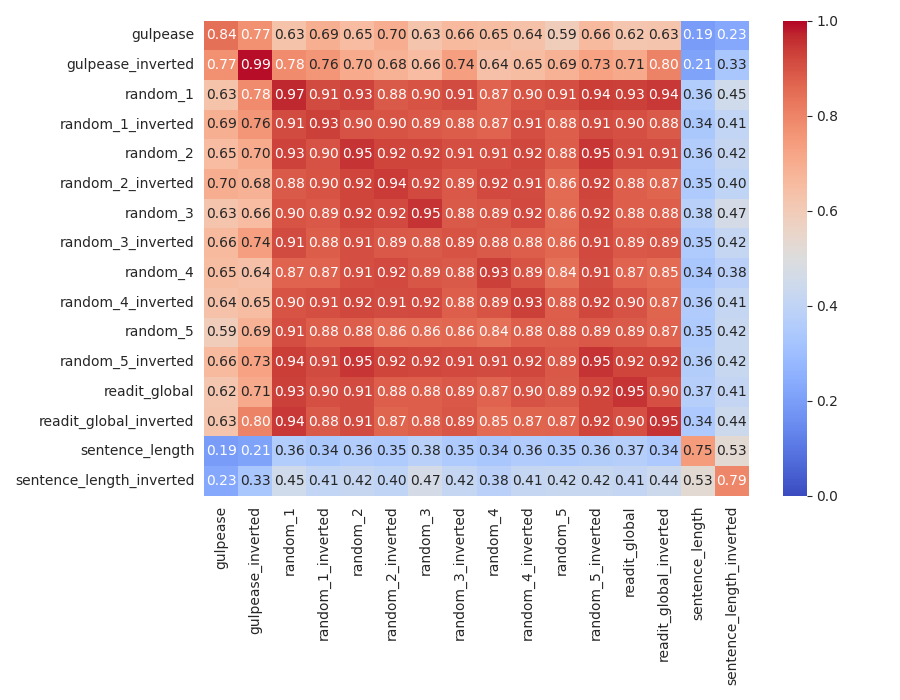
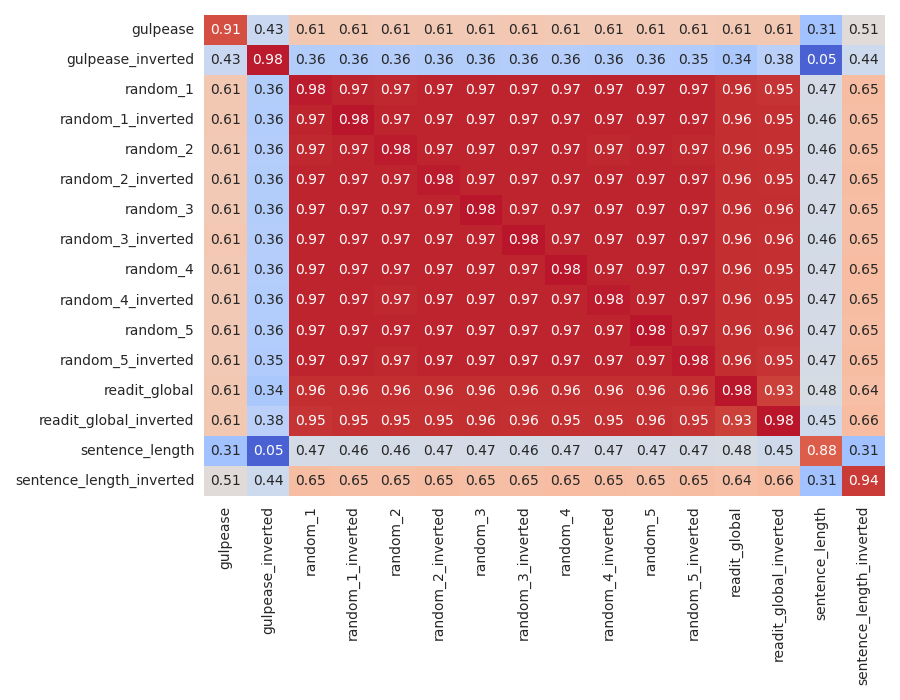
changed correlation coefficient from pearson to spearman

diff --git a/scripts/eval/perplexity_correlations.py b/scripts/eval/perplexity_correlations.py
@@ -48,7 +48,7 @@ def get_curriculum_list(df):
     return curricula, groups
 
 def compute_perplexity_correlations(df, curricula, groups):
-    corr_seed = df.corr(method="pearson")
+    corr_seed = df.corr(method="spearman")
     correlations_df = pd.DataFrame(index=curricula, columns=curricula, dtype=float)
     for currA in curricula:
         for currB in curricula:
@@ -63,7 +63,7 @@ def compute_perplexity_correlations(df, curricula, groups):
 
 def plot_correlations(correlations_df, output_path):
     plt.figure(figsize=(9, 7))
-    sns.heatmap(correlations_df, annot=True, fmt=".2f", cmap='coolwarm', vmin=0, vmax=1)
+    sns.heatmap(correlations_df, annot=True, fmt=".2f", cmap='coolwarm', vmin=0, vmax=1, cbar=False)
     plt.tight_layout()
     plt.show()
     plt.savefig(output_path) 
@@ -87,7 +87,6 @@ def main():
 
     curricula, groups = get_curriculum_list(df)
     correlations_df = compute_perplexity_correlations(df, curricula, groups)
-    print(correlations_df)
     plot_correlations(correlations_df, output_path)
    
 
